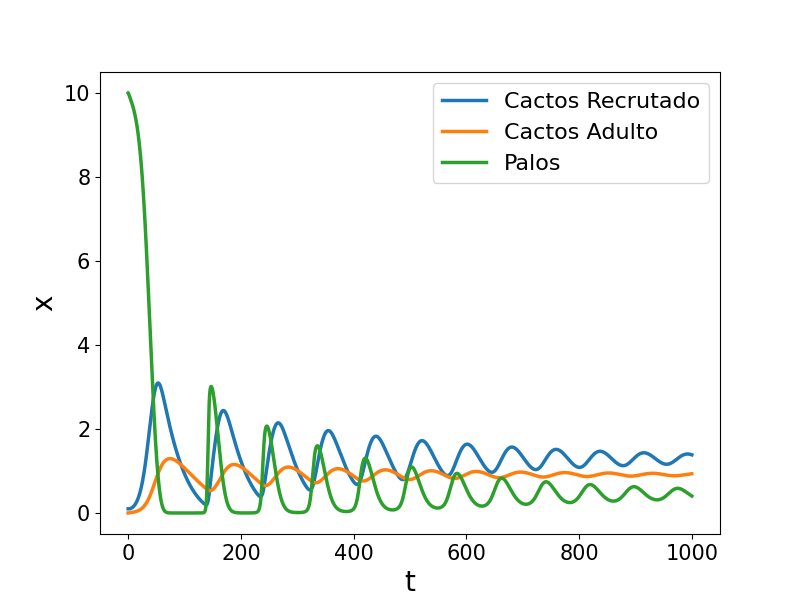
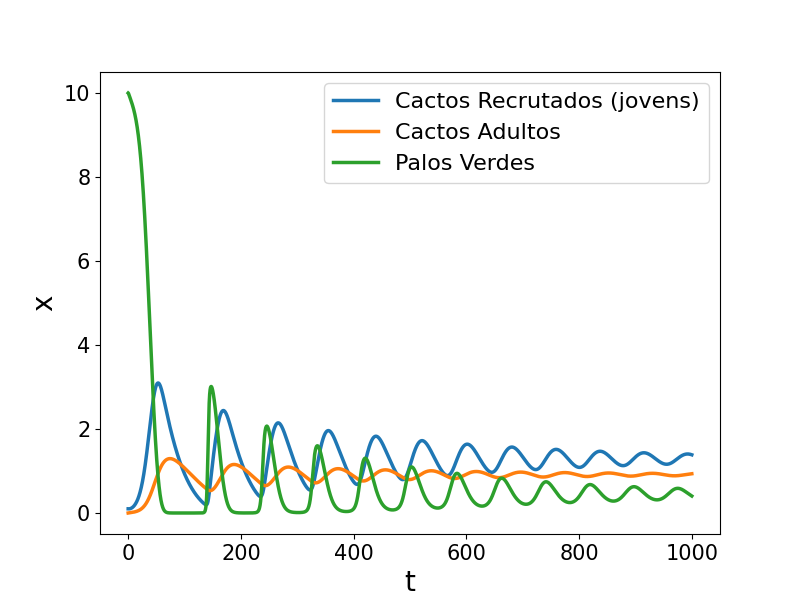
gramatica

Changed region(s): [[0.4062, 0.21, 0.8438, 0.3], [0.4062, 0.15, 0.875, 0.18]]

diff --git a/modelo_cactos_palos_full_3.py b/modelo_cactos_palos_full_3.py
@@ -61,6 +61,6 @@ tick_params(labelsize = 15)
 plot(t, modelo_integrado, linewidth = 2.5, linestyle = "-")
 xlabel("t", fontsize = 20) # definir rótulo do eixo x
 ylabel("x", fontsize = 20) # e do eixo y
-legend(["Cactos Recrutado", "Cactos Adulto", "Palos"], fontsize = 16)
+legend(["Cactos Recrutados (jovens)", "Cactos Adultos", "Palos Verdes"], fontsize = 16)
 savefig("full_model_3.png")
 print(modelo_integrado)
